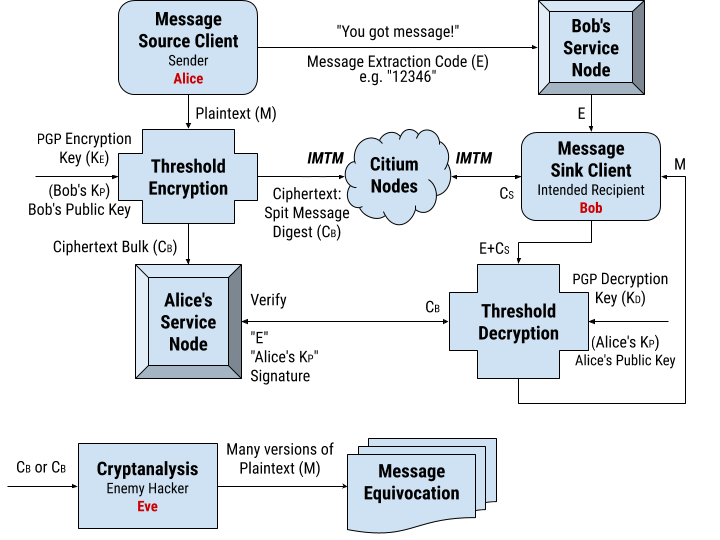
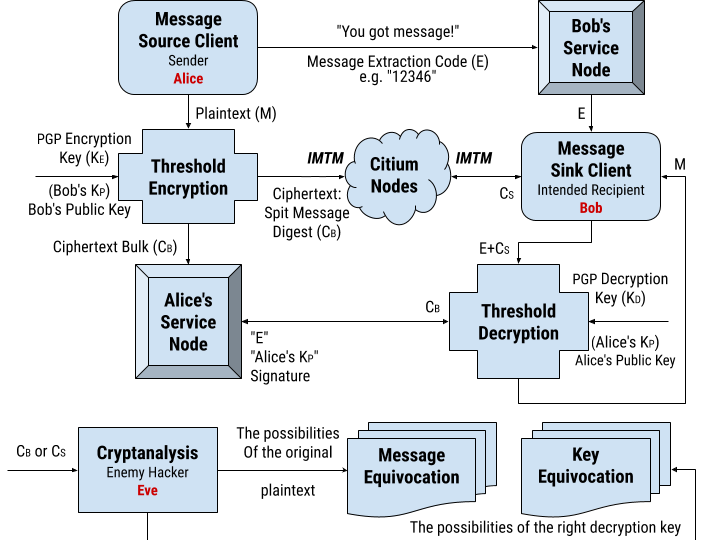
In the Citium cryptosystem, there is always a chance of an enemy hacker or a cryptanalyst intercepting a ciphertext (C). We are going to talk about a critical concept called key equivocation and message equivocation.

Changed region(s): [[0.0917, 0.7704, 0.9472, 1.0], [0.0306, 0.8296, 0.0917, 0.8889], [0.3361, 0.5333, 0.3972, 0.563]]

diff --git a/confidentiality.md b/confidentiality.md
@@ -12,6 +12,8 @@ Most of the conventional instant messenger systems (IMS) are built on a centrali
 
 ### 秘鑰/信息疑義<br>Key/Message Equivocation
 
+In the Citium cryptosystem, there is always a chance of an enemy hacker or a cryptanalyst intercepting a ciphertext (C). We are going to talk about a critical concept called key equivocation and message equivocation.
+
 ![Cipher](/img/cipher.png "General Cipher Flow"){: .center-block :}
 
 密码分析员成功破译文本的几率一般会随着文本长度的增加而增加。假设密码分析员同时拥有明文和密文，因此将更有能力快速找到密钥。密钥的外观等效性是指在已知明文攻击下的密钥的强度，而密钥等效性和消息等效性则是指在已知明文攻击下的密钥和明文攻击下的密钥强度。收到的密码文本越长，密码分析员发现密钥或明文的概率就越大。
